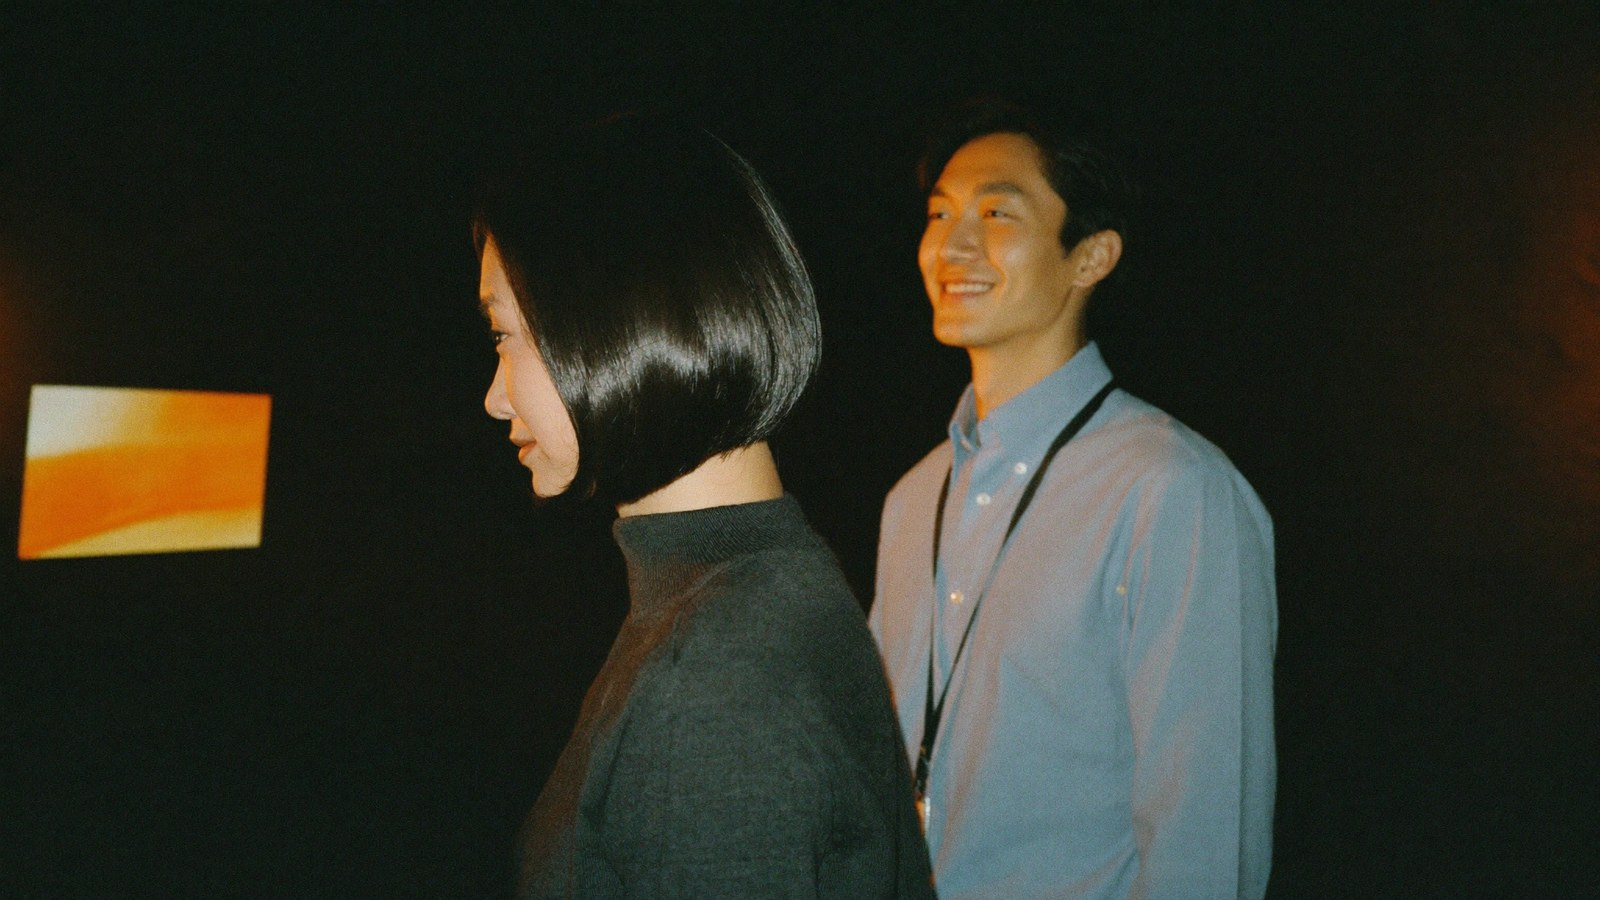
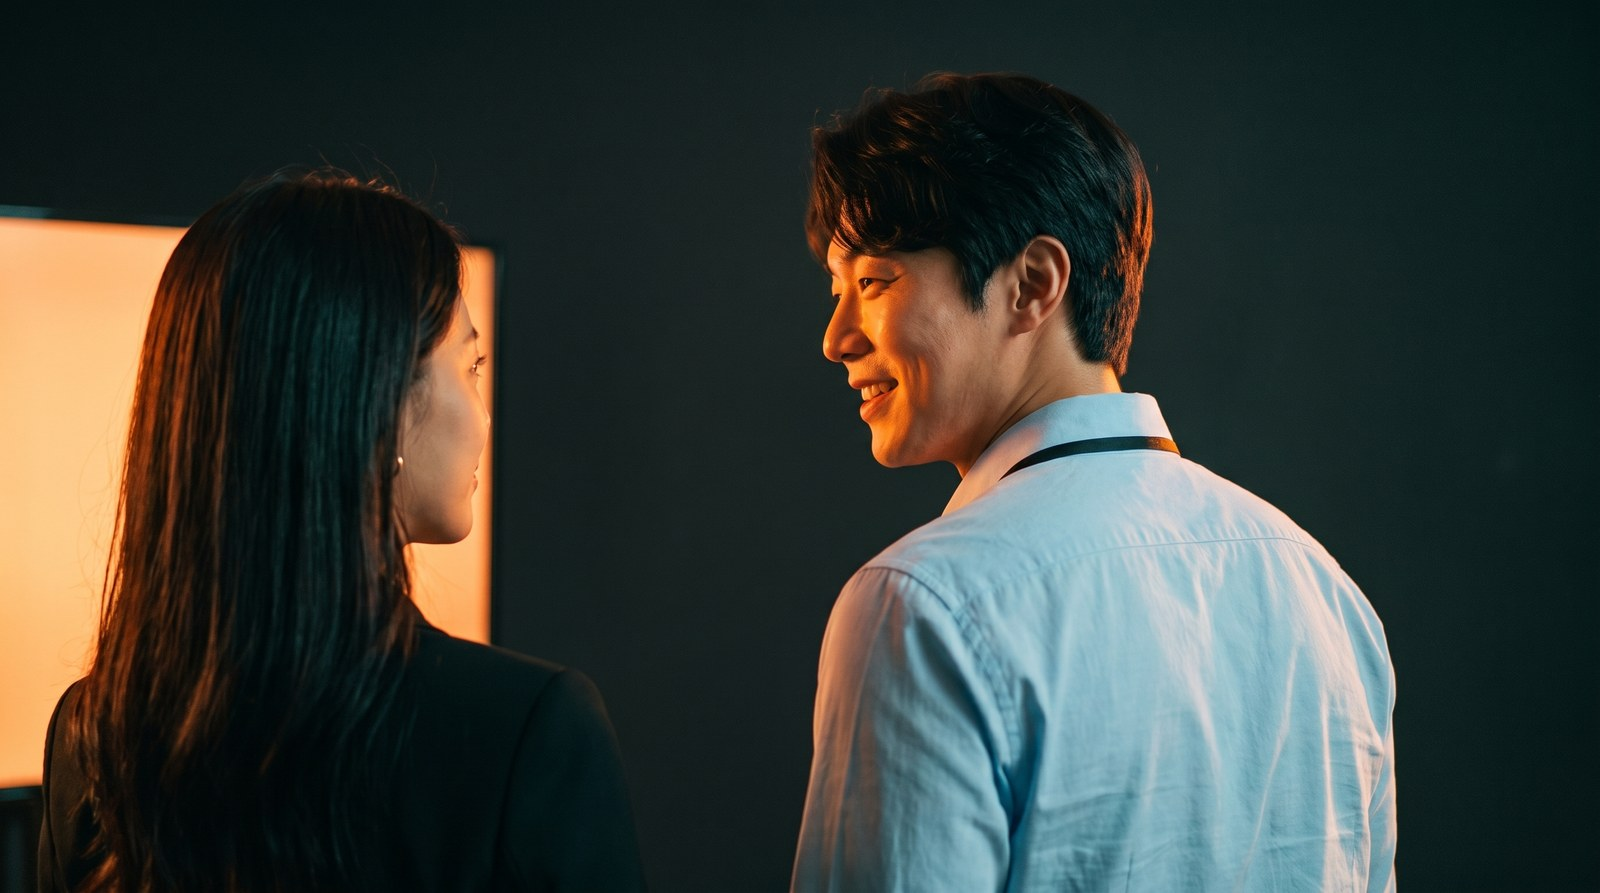
feat: GENCOW 실제 인물로 두 캐릭터 확정, 얼굴 일관성 해결
제작사 제공 키비주얼의 인물을 Reference Element로 등록해 선배(여성)와
후배(남성)의 얼굴을 전 컷에 고정했습니다.

- 인물이 등장하는 9컷 재생성 (1·2·3·8·9·11·15·16)
- 브랜드 표기를 GENCOW로, 락업 카피를 공식 태그라인 "상상을 서비스로."로 교체
- 캐릭터 설정을 실제 인물에 맞춰 갱신

얼굴 일관성은 텍스트 묘사 상수로 해결되지 않습니다. 같은 문장을 복붙해도
컷마다 다른 사람이 나오며, 스타일 레퍼런스로도 잡히지 않습니다. 두 인물이
한 프레임에 들어가는 컷이 있어 Soul 학습 대신 Element를 사용했습니다.

문서의 자기모순도 정정했습니다. 컬러 섹션이 네거티브 프롬프트 사용을
지시하고 있었는데, 이는 프로덕션 가이드에 기록된 관찰과 반대입니다.

Claude-Session: https://claude.ai/code/session_0126zQoECXJ1Qoyz4xLnXEtQ

diff --git a/조언v1.0.md b/조언v1.0.md
@@ -1,13 +1,20 @@
 # 조언 v1.0
 
-**제품** — 젠카우 (한국의 AI 빌더 · AI 서비스 배포부터 운영까지)
+**제품** — GENCOW (젠카우, 한국의 AI 빌더 · AI 서비스 배포부터 운영까지)
 **포맷** — 유튜브 30초 (메인) / 15초 (쇼츠)
 **장르** — 대화극 · 제4의 벽 파괴
 **제작 도구** — Higgsfield
 **작성일** — 2026-09-01
 **상태** — v1.0 초안
 
-> 이 문서는 `시나리오 시놉시스v1.0.md`의 5개 장르와 **별개 노선**입니다. 그 문서는 제품명을 `Ember`로 가정하고 작성됐으나, 실제 브랜드는 **젠카우**로 확정되었습니다. 두 문서의 관계는 §10-2 참조.
+> 이 문서는 `시나리오 시놉시스v1.0.md`의 5개 장르와 **별개 노선**입니다. 그 문서는 제품명을 `Ember`로 가정했으나, 실제 브랜드는 **GENCOW**입니다. 두 문서의 관계는 §12-3 참조.
+
+> **공식 브랜드 자산** (제작사 제공 키비주얼에서 확인)
+> - 표기: **GENCOW** (로고타입 대문자), www.gencow.com
+> - 태그라인: **"상상을 서비스로."**
+> - 서브카피: "아이디어를 실제 운영 가능한 AI 서비스로" / "만드는 데서 멈추지 않고, 운영까지"
+> - CTA: "지금 시작"
+> - 강조색: 오렌지 (본 문서 §8-1의 `#FF7A1A`와 실질적으로 일치)
 
 ---
 
@@ -71,11 +78,17 @@
 
 ## 4. 캐릭터
 
-### 청년 창업가 — 26세
-갓 창업. 데모데이에서 처음으로 자기 앱을 사람들에게 보여주는 날. **후디 금지** — 개발자 클리셰를 피하고, 오늘을 위해 새로 산 듯한 셔츠에 행사 명찰을 목에 걸었습니다. 폰을 두 손으로 들고 있습니다. 자랑이 아니라 순수한 기쁨으로 보여야 합니다. 그래야 뒤가 아픕니다.
+### 후배 창업가 — 30대 초반, 남성
+데모데이에서 처음으로 자기 서비스를 사람들에게 보여주는 날. 볼륨 있는 웨이비 다크 헤어. **후디 금지** — 개발자 클리셰를 피하고, 하늘색 셔츠에 검은 스트랩 명찰을 목에 걸었습니다. 폰을 들고 있습니다.
+
+> 표정은 *순진한 흥분*이 아니라 **자신감 있는 뿌듯함**입니다. 후배가 또래에 가까울수록 선배의 질문이 훈계가 아니라 **동료 간 조언**으로 읽히고, §3-3의 톤 리스크가 줄어듭니다. 대신 무너지는 낙차는 더 커집니다.
+
+> 캐릭터 얼굴은 제작사가 제공한 GENCOW 키비주얼의 인물로 고정했습니다. Element `@gencow-junior`.
 
 ### 선배 창업가 — 38세, 여성
-세련됨. 턱선에 떨어지는 단정한 검은 단발. 톤다운된 차콜 그레이 니트, 무채색. 과하지 않은 은색 시계와 미니멀한 실버 귀걸이. 표정이 거의 변하지 않습니다. 한 손에 잔. **이 사람은 다 겪어본 사람이고, 그래서 화를 내지 않습니다.**
+세련됨. 긴 다크 헤어, 블랙 테일러드 재킷, 작은 골드 후프 귀걸이와 얇은 골드 시계. 표정이 거의 변하지 않습니다. 한 손에 잔. **이 사람은 다 겪어본 사람이고, 그래서 화를 내지 않습니다.**
+
+> 캐릭터 얼굴은 제작사가 제공한 GENCOW 키비주얼의 인물로 고정했습니다. Element `@gencow-senior`.
 
 > **왜 여성인가**: 나이 든 남자 선배가 젊은 남자 후배를 훈수하는 구도는 이미 닳았고, §3-3의 "재수 없음" 리스크를 키웁니다. 여성 선배로 두면 그 클리셰가 사라지면서 '세련됨'이 더 선명해지고, 조언이 위계가 아니라 **경험에서 나온 것**으로 읽힙니다. 실제 생성에서도 정면 응시가 훈계보다 관조로 읽혀 톤이 안전해졌습니다.
 
@@ -101,11 +114,11 @@
 | 10 | 12.5–13.0 | **하드 컷.** 배경이 사라짐 | — | 뚝 | — |
 | 11 | 13.0–17.0 | **선배 혼자. 정면 클로즈업.** 카메라를 똑바로 봄 | 고정, 미세 드리프트 | 선배: "아직도 모르세요?" | `아직도 모르세요?` |
 | 12 | 17.0–19.5 | 같은 클로즈업. 입꼬리가 아주 살짝 올라감 | 고정 | 선배: **"한방 되는데~"** | `한방 되는데~` |
-| 13 | 19.5–21.0 | 젠카우 화면 — 배포 완료 로그가 한 줄씩 올라옴 | 고정, 매크로 | 사운드 로고 진입 | `배포` |
+| 13 | 19.5–21.0 | GENCOW 화면 — 배포 완료 로그가 한 줄씩 올라옴 | 고정, 매크로 | 사운드 로고 진입 | `배포` |
 | 14 | 21.0–22.5 | 같은 화면 — 결제·에러·이벤트 지표가 순서대로 초록 점등 | 느린 풀아웃 | 점등음 4연타 | `결제 · AS · 이벤트 · 에러` |
 | 15 | 22.5–24.5 | 청년의 폰이 정상 작동. 그 위로 선배의 손이 잔을 건넴 | 고정 | 잔이 부딪는 "탱" | — |
 | 16 | 24.5–27.0 | 두 사람이 나란히 서서 화면을 봄. 청년이 웃음 | 느린 풀아웃 | 음악 복귀 | — |
-| 17 | 27.0–30.0 | **락업** | 고정 | 사운드 로고 3음 | **젠카우**<br>`배포부터 운영까지, 한방에` |
+| 17 | 27.0–30.0 | **락업** | 고정 | 사운드 로고 3음 | **GENCOW**<br>`상상을 서비스로.` |
 
 ### 구조 요약
 
@@ -135,8 +148,8 @@
 | 5 | 6.8–8.0 | **정적.** 폰을 내림 | — | — |
 | 6 | 8.0–10.5 | **하드 컷 → 선배 혼자, 정면 클로즈업** | "아직도 모르세요?" | `아직도 모르세요?` |
 | 7 | 10.5–12.0 | 같은 컷. 입꼬리 미세 상승 | **"한방 되는데~"** | `한방 되는데~` |
-| 8 | 12.0–13.5 | 젠카우 지표 4개가 순서대로 초록 점등 | — | `배포 · 결제 · 에러 · 운영` |
-| 9 | 13.5–15.0 | **락업** | — | **젠카우**<br>`한방에` |
+| 8 | 12.0–13.5 | GENCOW 지표 4개가 순서대로 초록 점등 | — | `배포 · 결제 · 에러 · 운영` |
+| 9 | 13.5–15.0 | **락업** | — | **GENCOW**<br>`상상을 서비스로.` |
 
 **세로 전용 규칙**
 - 상단 15% / 하단 25% / 우측 20% 비움 (유튜브 UI가 먹는 영역)
@@ -172,7 +185,9 @@
 | 보조 | Deep Teal | `#0B3B38` | 그림자, 야간 |
 | **강조** | **Amber** | **`#FF7A1A`** | **광원으로만** — 파티 전구, 폰 화면빛, 잔에 맺힌 반사 |
 
-**보라 전면 배제.** AI 제품의 보라 그라데이션은 몰개성의 표식이며, 모든 프롬프트 네거티브에 `no purple, no violet`이 상수로 들어갑니다.
+**보라 전면 배제.** AI 제품의 보라 그라데이션은 몰개성의 표식입니다.
+
+> ⚠ 단, **이 규칙을 네거티브 프롬프트로 적으면 안 됩니다.** `no purple`이라고 쓰면 오히려 보라색이 대량 생성됩니다 — 실제로 겪었습니다. 배제는 프롬프트가 아니라 **모든 색을 긍정 서술로 지정**하는 방식으로 달성합니다. §10-3 참조.
 
 앰버×틸 조합을 쓰는 이유는 미학만이 아닙니다. **시네마 컬러 그레이딩의 기본 문법이라 AI 모델이 가장 많이 학습한 조합**이고, 그래서 재현 성공률이 가장 높습니다. 브랜드 컬러를 정하는 일이 곧 프롬프트 안정성을 확보하는 일입니다.
 
@@ -293,15 +308,14 @@ warm charcoal blacks, fine film grain, soft halation, natural Korean skin tones
 매 컷 **동일 문장을 복붙**합니다. 묘사를 매번 다르게 쓰면 다른 사람이 나옵니다.
 
 ```
-[선배]
-38세 한국인 여성, 턱선 길이의 단정한 검은 단발,
-차콜 그레이 니트, 얇은 은색 시계 왼손목,
-미니멀한 실버 귀걸이, 무표정, 안경 없음
-
-[청년]
-26세 한국인 남성, 부스스한 검은 머리, 밝은 하늘색 셔츠,
-검은 스트랩에 흰 명찰, 상기된 표정
+<<<gencow-senior>>>   38세 여성, 긴 다크 헤어, 블랙 재킷,
+                      골드 후프 귀걸이, 얇은 골드 시계
+<<<gencow-junior>>>   30대 초반 남성, 볼륨 있는 웨이비 다크 헤어,
+                      하늘색 셔츠, 검은 스트랩에 흰 명찰
 ```
+
+> **텍스트 묘사만으로는 얼굴이 고정되지 않습니다.** 실제 생성에서 확인된 사항이며,
+> 반드시 Reference Element를 물려야 합니다. 상세는 §10-4.
 
 **의상을 실루엣과 명도로 잠급니다.** 무늬·프린트 배제. 조명이 바뀌어도 실루엣과 명도가 같으면 동일인으로 읽힙니다.
 
@@ -394,10 +408,10 @@ deep teal shadows, 35mm film grain, natural skin texture.
 
 | # | 항목 | 비고 |
 |---|---|---|
-| 1 | **젠카우 실제 기능** | 샷 13–14는 배포·결제·AS·이벤트·에러 지표가 실제로 한 화면에 있다고 가정합니다. **없으면 그 컷을 빼야 합니다.** 개발자는 광고 보고 바로 들어와서 확인합니다 |
+| 1 | **GENCOW 실제 기능** | 샷 13–14는 배포·결제·AS·이벤트·에러 지표가 실제로 한 화면에 있다고 가정합니다. **없으면 그 컷을 빼야 합니다.** 개발자는 광고 보고 바로 들어와서 확인합니다 |
 | 2 | **로고 / 워드마크** | 락업(샷 17)에 들어갈 실물이 필요합니다 |
-| 3 | **"한방 되는데~" 상표 사용 여부** | 이 말이 브랜드 자산이 될지, 이번 편 한정 대사일지 |
-| 4 | **컬러 팔레트 승인** | §8-1은 앞선 문서에서 이어받았습니다. 젠카우 CI가 따로 있다면 교체 필요 |
+| 3 | **"한방 되는데~" 상표 사용 여부** | 공식 태그라인이 "상상을 서비스로."로 확인됐으므로, 이 말은 **대사 전용**으로 두는 것을 권장 (§12-2 ④) |
+| 4 | **컬러 팔레트 승인** | GENCOW 키비주얼의 오렌지가 §8-1의 `#FF7A1A`와 실질적으로 일치함을 확인했습니다. 정확한 CI 값이 있으면 교체 |
 
 ### 12-2. 리스크
 
@@ -418,7 +432,7 @@ deep teal shadows, 35mm film grain, natural skin texture.
 
 ### 12-3. 앞선 문서와의 관계
 
-`시나리오 시놉시스v1.0.md`는 제품명을 `Ember`로 가정하고 5개 장르를 설계했습니다. 실제 브랜드가 **젠카우**로 확정되었으므로 그 문서의 §2-4(네이밍)와 전 장르 락업은 무효이며, 개정이 필요합니다.
+`시나리오 시놉시스v1.0.md`는 제품명을 `Ember`로 가정하고 5개 장르를 설계했습니다. 실제 브랜드가 **GENCOW**로 확정되었으므로 그 문서의 §2-4(네이밍)와 전 장르 락업은 무효이며, 개정이 필요합니다.
 
 다만 그 문서의 아래 부분은 **브랜드명과 무관하게 유효**하며 이 문서도 그대로 상속했습니다:
 

diff --git a/stills/README.md b/stills/README.md
@@ -3,9 +3,9 @@
 `조언v1.0.md` 시나리오의 각 신을 Higgsfield로 생성한 키프레임입니다.
 영상 생성 전 **룩 확정용**이며, 각 컷의 image-to-video 시작 프레임으로 사용합니다.
 
-- **모델**: `soul_2` (Higgsfield) · 2K · 16:9
+- **모델**: 인물컷 `nano_banana_pro` + Reference Element / 인서트 `soul_2` · 2K · 16:9
 - **생성일**: 2026-09-01
-- **소모 크레딧**: 약 5.5 (이미지 43장 생성, 재작업 포함)
+- **소모 크레딧**: 약 12 (이미지 70장 생성, 캐릭터 교체·일관성 재작업 포함)
 - **콘택트시트**: [`../조언v1.0_스틸컷.jpg`](../조언v1.0_스틸컷.jpg)
 
 여기 커밋된 파일은 1600px JPEG입니다. 2K 원본은 Higgsfield 계정의 생성 기록에 있습니다.
@@ -44,12 +44,14 @@ natural Korean skin texture
 인물 묘사는 매 컷 동일 문장을 복붙했습니다.
 
 ```
-[선배] 38세 한국인 여성, 턱선 길이의 단정한 검은 단발,
-       차콜 그레이 니트, 얇은 은색 시계 왼손목,
-       미니멀한 실버 귀걸이, 무표정, 안경 없음
-[청년] 26세 한국인 남성, 부스스한 검은 머리, 하늘색 셔츠,
-       검은 스트랩에 흰 명찰
+<<<gencow-senior>>>  38세 여성, 긴 다크 헤어, 블랙 재킷,
+                     골드 후프 귀걸이, 얇은 골드 시계
+<<<gencow-junior>>>  30대 초반 남성, 볼륨 있는 웨이비 다크 헤어,
+                     하늘색 셔츠, 검은 스트랩에 흰 명찰
 ```
+
+두 인물 모두 제작사가 제공한 GENCOW 키비주얼의 얼굴을 Reference Element로 등록해 고정했습니다.
+텍스트 묘사만으로는 얼굴이 잡히지 않습니다 — 아래 5번 참조.
 
 ## 제작 중 확인된 것
 
@@ -88,10 +90,29 @@ natural Korean skin texture
 10~15%보다 높습니다. 인서트는 대체로 한 번에 나왔고, 재작업은 거의 전부 인물 컷에서
 발생했습니다(보라색 오염, 나이 이탈, 표정 불일치, 선배 성별 변경).
 
-## 선배 캐릭터 변경 (여성)
+### 5. 얼굴은 텍스트로 고정되지 않는다 (가장 중요)
 
-선배를 여성으로 교체하면서 인물이 등장하는 5컷(2·3·11·15·16)을 재생성했습니다.
-**조명·컬러·의상 명도는 그대로 유지**해 룩 시스템을 깨지 않았습니다.
+인물 묘사 문자열을 매 컷 동일하게 복붙했는데도 **컷마다 다른 사람이 나왔습니다.**
+텍스트는 조명·의상·실루엣까지만 고정합니다.
+
+| 시도 | 결과 |
+|---|---|
+| 텍스트 묘사 상수만 | ❌ 컷마다 다른 얼굴 |
+| `soul_2` + 이미지 레퍼런스(`image` role) | ❌ 스타일 참조일 뿐, 정체성 미고정 |
+| **Reference Element + `nano_banana_pro`** | ✅ **전 컷 동일 인물** |
+
+Soul 학습 대신 Element를 택한 이유는 **샷 3·16에 두 인물이 한 프레임**에 들어가기 때문입니다.
+Soul은 생성당 1명만 가능하고, Element는 한 프롬프트에 여러 개의 `<<<element_id>>>`를 넣을 수 있습니다.
+
+부수적으로 알게 된 것: **파일명으로 내용을 추측하면 안 됩니다.** 업로드된
+`gencow_young_bustcut_v2`를 "young = 청년"으로 넘겨짚고 후배 레퍼런스로 썼더니 여성이 나왔습니다.
+검증 생성 한 번(약 0.3 크레딧)이면 확인되는 것을 추측으로 건너뛴 실수입니다.
+
+## 캐릭터 확정 (GENCOW 키비주얼)
+
+두 캐릭터 모두 제작사 제공 키비주얼의 실제 인물로 확정했습니다.
+**조명·컬러·의상 명도 원칙은 그대로 유지**해 룩 시스템을 깨지 않았습니다 —
+후배는 밝은 하늘색, 선배는 어두운 블랙으로 채도 대비가 유지됩니다.
 
 히어로 컷(11)은 3테이크를 뽑아 비교했습니다.
 
@@ -101,7 +122,9 @@ natural Korean skin texture
 | B | ❌ 손가락이 입을 가림 — 립싱크 컷으로 치명적 |
 | C | ❌ 시선이 카메라를 벗어남 — 제4의 벽을 깨지 못함 |
 
-탈락본은 `../alts/`가 아니라 Higgsfield 생성 기록에 남아 있습니다.
+탈락본은 Higgsfield 생성 기록에 남아 있습니다. 선배 얼굴이 GENCOW 키비주얼로 교체되면서
+이 3테이크는 폐기됐지만, **판단 기준은 그대로 유효**합니다 — 히어로 컷은 입이 가려지면 안 되고
+(립싱크), 시선이 카메라를 벗어나면 안 됩니다(제4의 벽).
 
 부수 효과로 **샷 3의 표정이 개선**됐습니다. 남성 버전에서는 청년이 활짝 웃고 있어
 "웃음이 불안으로 바뀌는" 시나리오와 어긋났는데, 재생성 때
@@ -112,4 +135,6 @@ natural Korean skin texture
 
 - **샷 14** 모니터 우측 가장자리에 마젠타 프린지가 미세하게 남아 있음. 후반 그레이딩에서 제거 가능
 - **샷 13·16** 화면 속 글자와 명찰 텍스트가 뭉개져 있음. 설계대로 **후반 합성 전제**이므로 문제 없음
-- **샷 1** 청년의 명찰에 뭉개진 글자가 작게 보임. 후반에서 덮거나 실제 명찰을 합성할 것
+- **샷 1** 후배의 명찰이 비어 있음. 후반에서 실제 명찰을 합성할 것
+- **샷 11** 히어로 컷이 문서 §8-2가 요구하는 것보다 약간 넓음. 영상 단계에서 크롭하거나 재생성
+- **샷 13·14** 화면 속 글자가 뭉개져 있음. 설계대로 **후반 합성 전제**이므로 문제 없음
